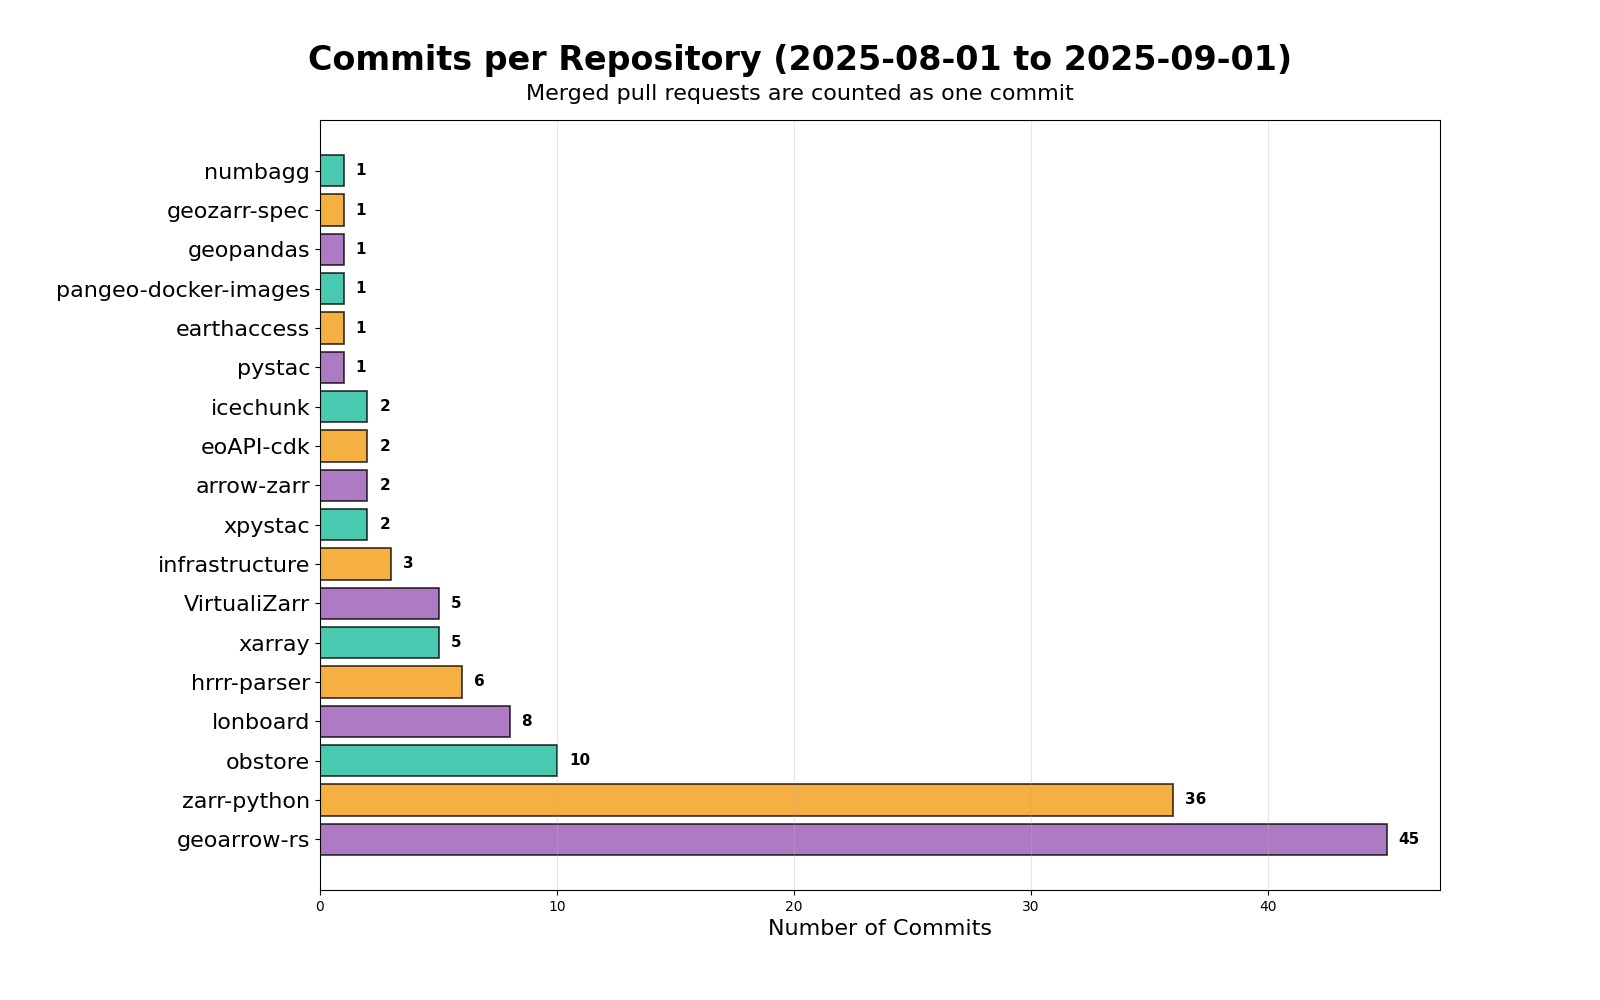
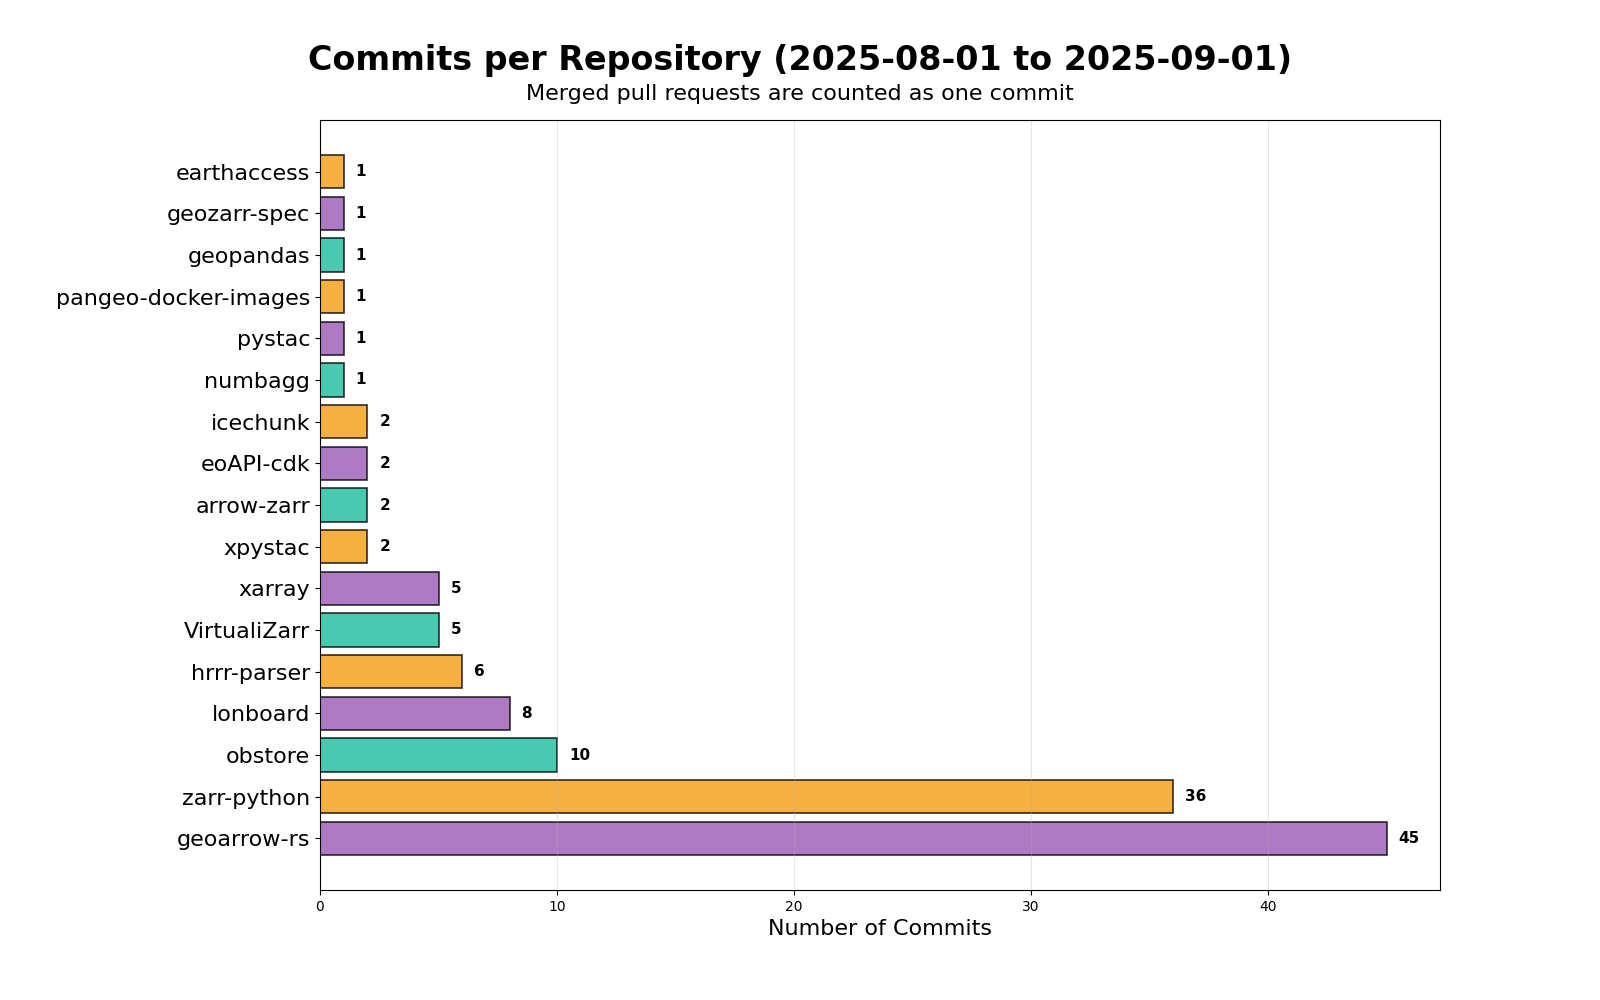
Add more reports (#237)

Changed region(s): [[0.0312, 0.155, 0.8438, 0.837], [0.1562, 0.837, 0.1875, 0.868]]

diff --git a/reports/plot.py b/reports/plot.py
@@ -15,7 +15,6 @@ def main():
 
     commits_per_repo = df["repository"].value_counts()
 
-    plt.figure(figsize=(12, 8))
     fig, ax = plt.subplots(1, 1, figsize=(16, 10))
     ax.barh(
         commits_per_repo.index,
@@ -26,14 +25,14 @@ def main():
         linewidth=1.2,
     )
     ax.set_xlabel("Number of Commits", fontsize=16)
-    ax.tick_params(axis="y", labelsize=16)
+    ax.tick_params(axis="y", labelsize=15)
     ax.grid(axis="x", alpha=0.3)
 
     for i, v in enumerate(commits_per_repo.values):
         ax.text(
             v + 0.5, i, str(v), ha="left", va="center", fontweight="bold", fontsize=11
         )
-    plt.subplots_adjust(left=0.2)
+    plt.subplots_adjust(left=0.3)
 
     # Bold title with date range
     date_range = f"{time_start.strftime('%Y-%m-%d')} to {time_end.strftime('%Y-%m-%d')}"

diff --git a/reports/config.py b/reports/config.py
@@ -1,4 +1,4 @@
-TIME_RANGE = ("20250801", "20250901")
+TIME_RANGE = ("20250701", "20250915")
 
 # Name, username, start date, end date
 USERS = [
@@ -52,6 +52,7 @@ REPOS = [
     ("geopandas", "geopandas"),
     ("georust", "geo-svg"),
     ("holoviz", "hvplot"),
+    ("jupyterhub", "repo2docker"),
     ("pangeo-data", "pangeo-docker-images"),
     ("pangeo-data", "pangeo.io"),
     ("nasa", "python_cmr"),
@@ -75,5 +76,4 @@ REPOS = [
     ("zarr-developers", "geozarr-spec"),
     ("zarr-developers", "VirtualiZarr"),
     ("2i2c-org", "jupyterhub-fancy-profiles"),
-    ("2i2c-org", "infrastructure"),
 ]
